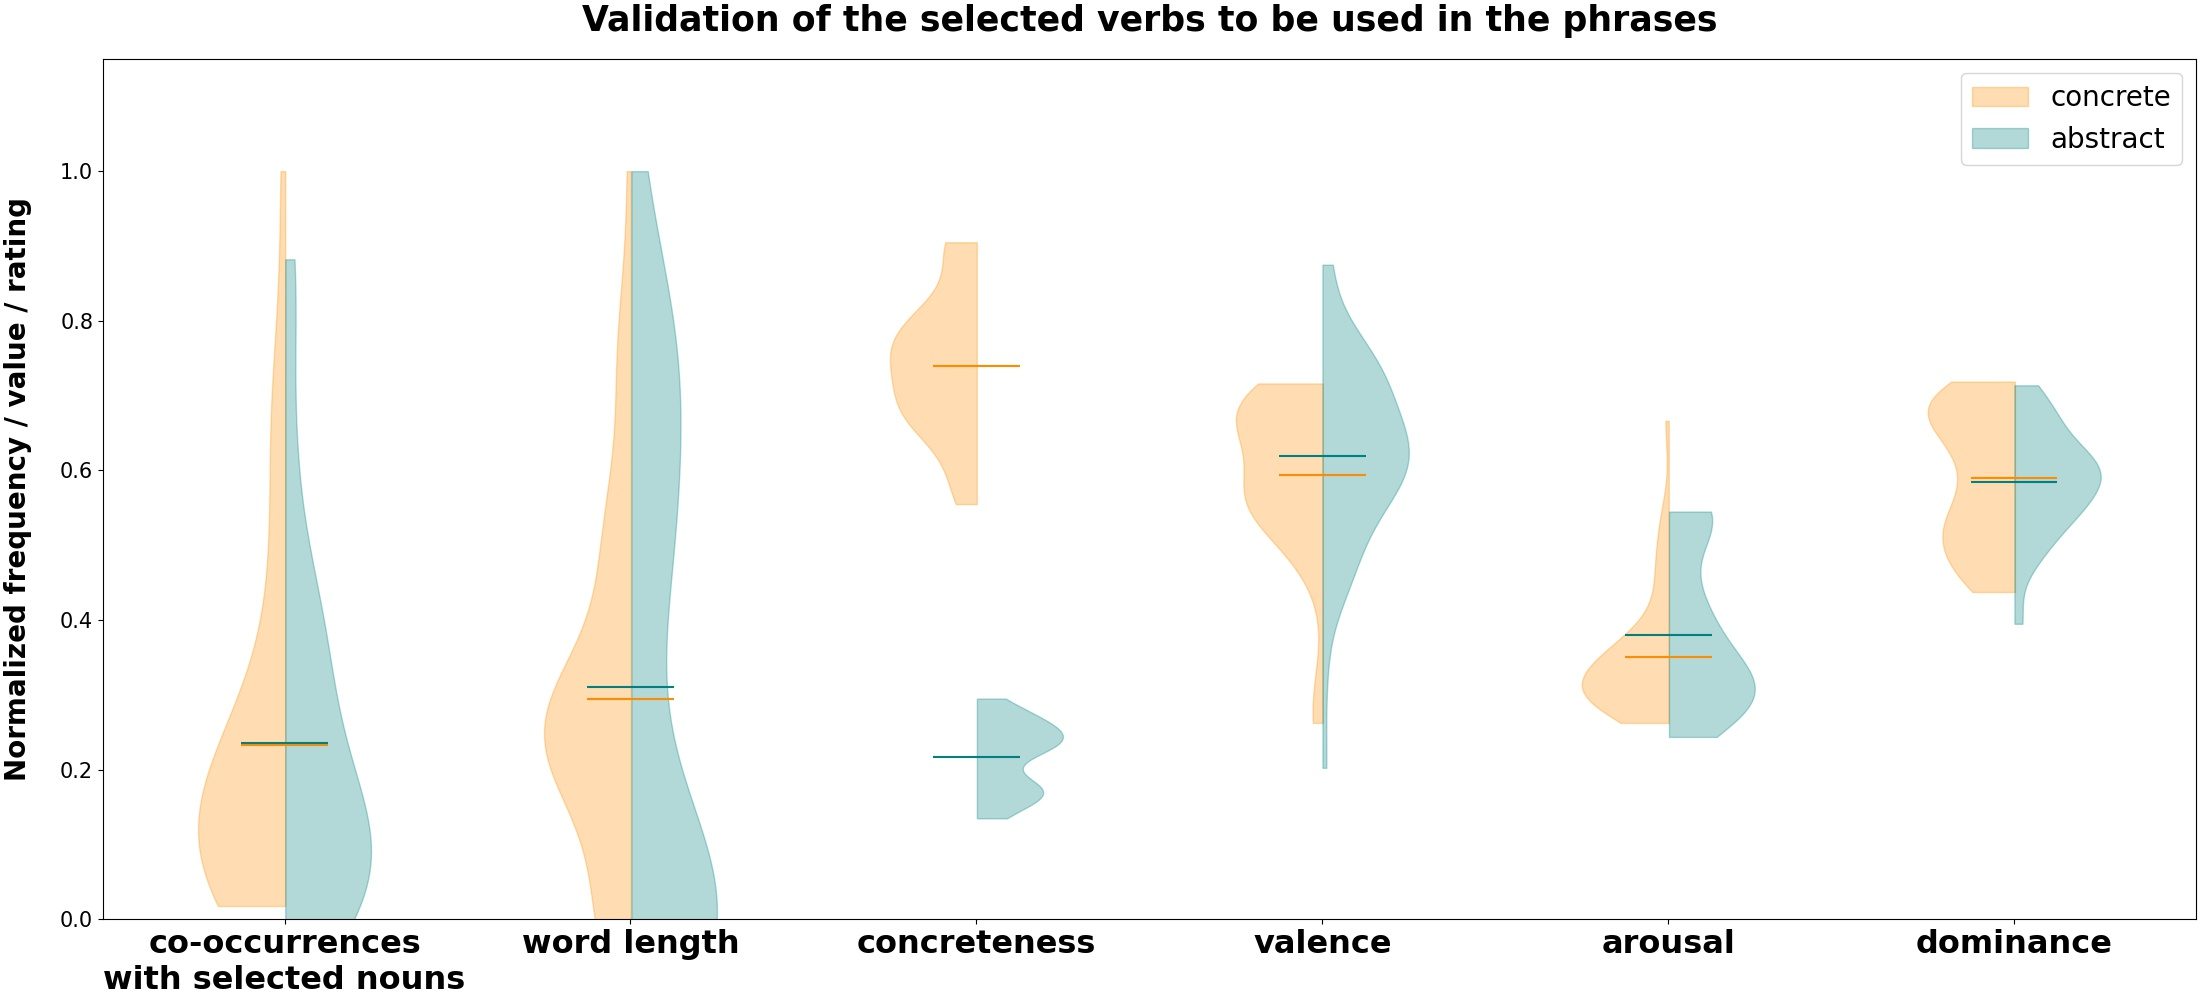
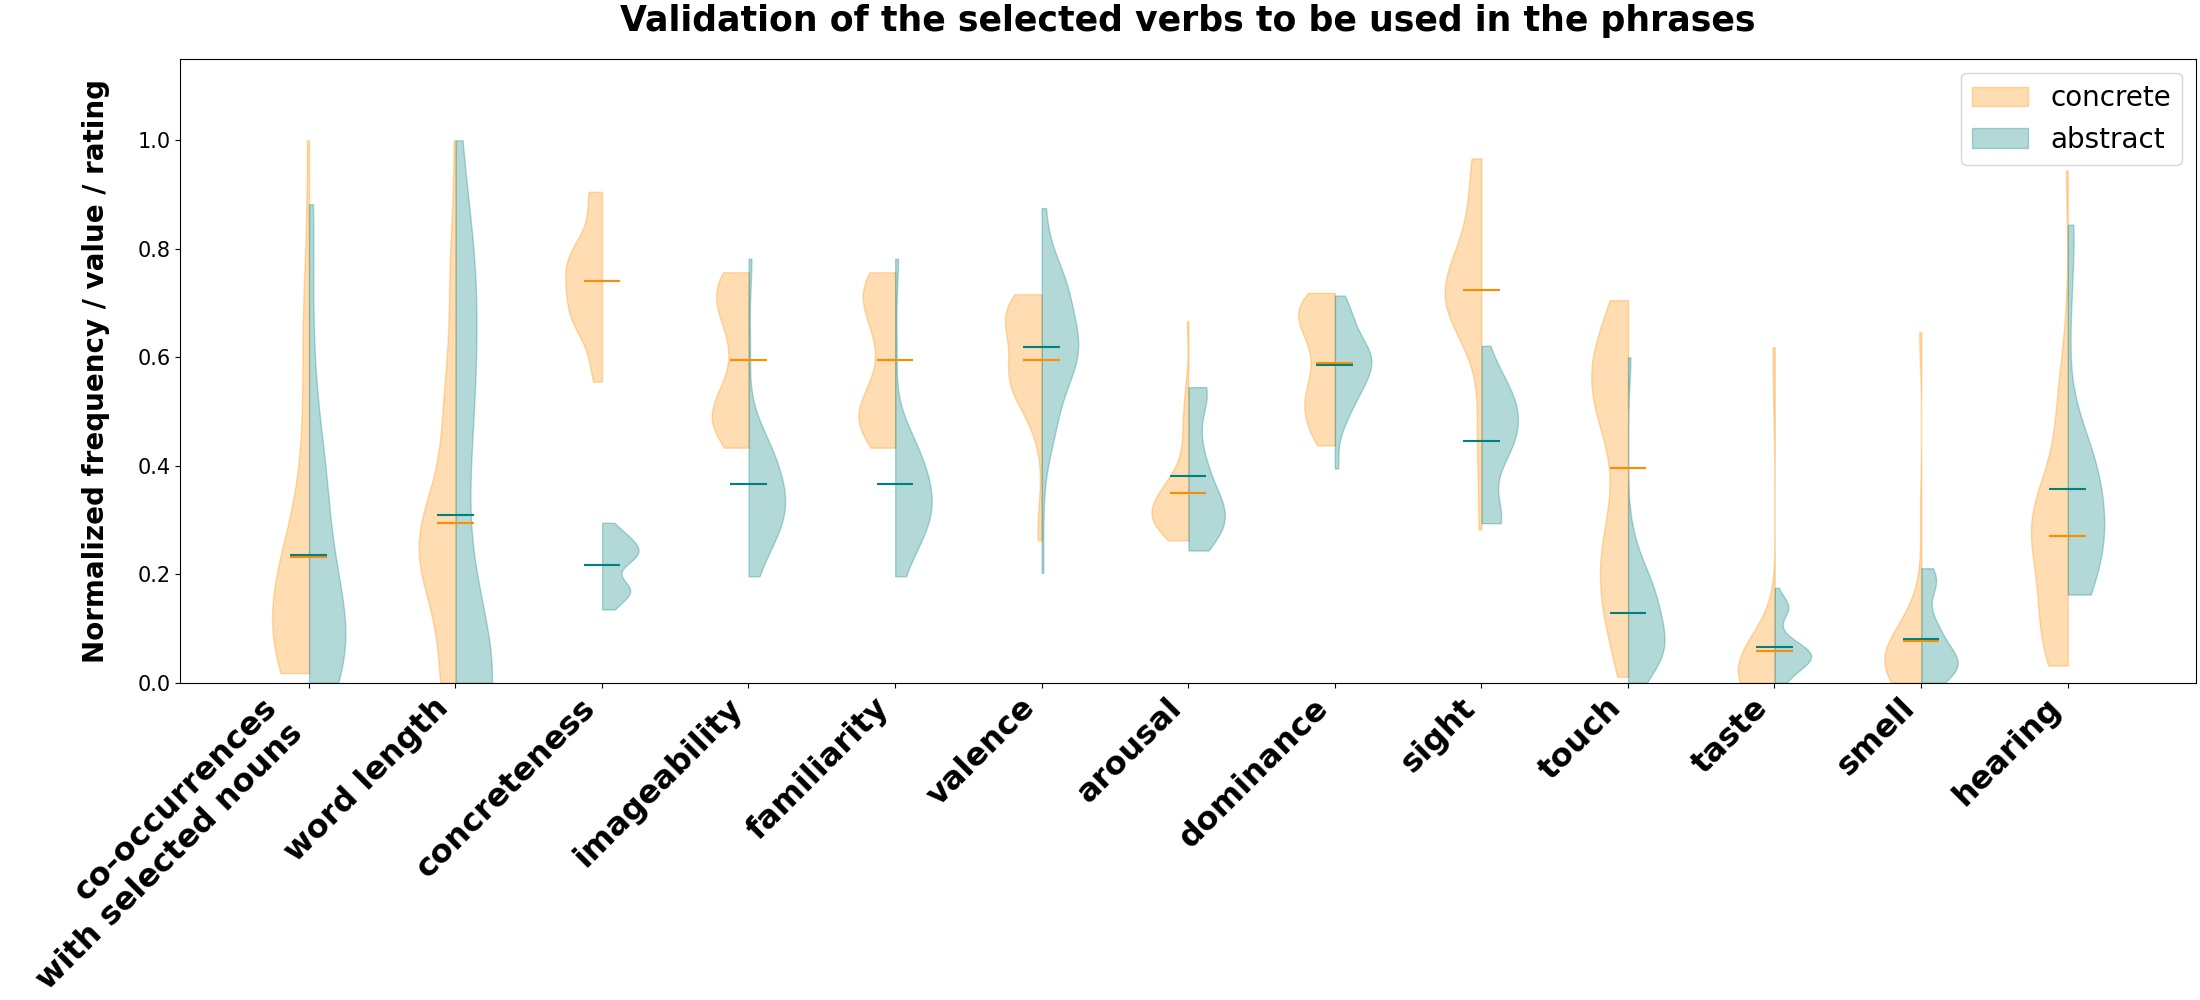
corrected

diff --git a/04_validate_list_phrases.py b/04_validate_list_phrases.py
@@ -92,9 +92,16 @@ print(stat_diff)
 
 datasets = [
             ('concreteness', conc),
+            ('imageability', imag),
+            ('familiarity', imag),
             ('valence', val),
             ('arousal', aro),
             ('dominance', dom),
+            ('sight', word_sensorimotor['sight']),
+            ('touch', word_sensorimotor['touch']),
+            ('taste', word_sensorimotor['taste']),
+            ('smell', word_sensorimotor['smell']),
+            ('hearing', word_sensorimotor['hearing']),
             ]
 
 for dataset_name, dataset in datasets:
@@ -166,6 +173,8 @@ ax.set_xticklabels(
                     xs, 
                     fontsize=23, 
                     fontweight='bold',
+                    rotation=45,
+                    ha='right',
                     )
 pyplot.yticks(fontsize=15)
 ax.set_ylabel(
